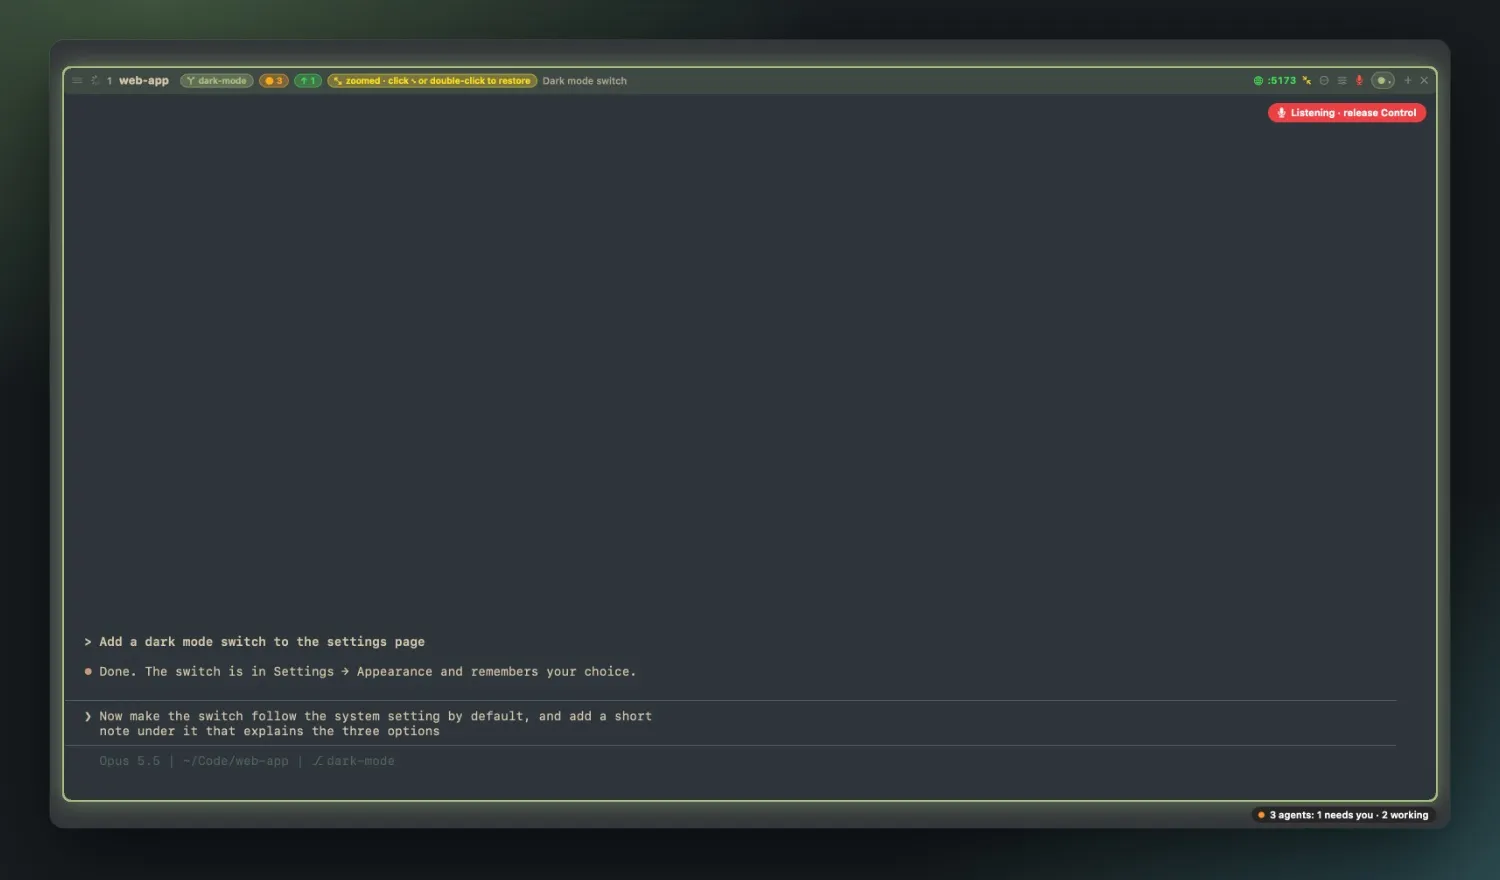
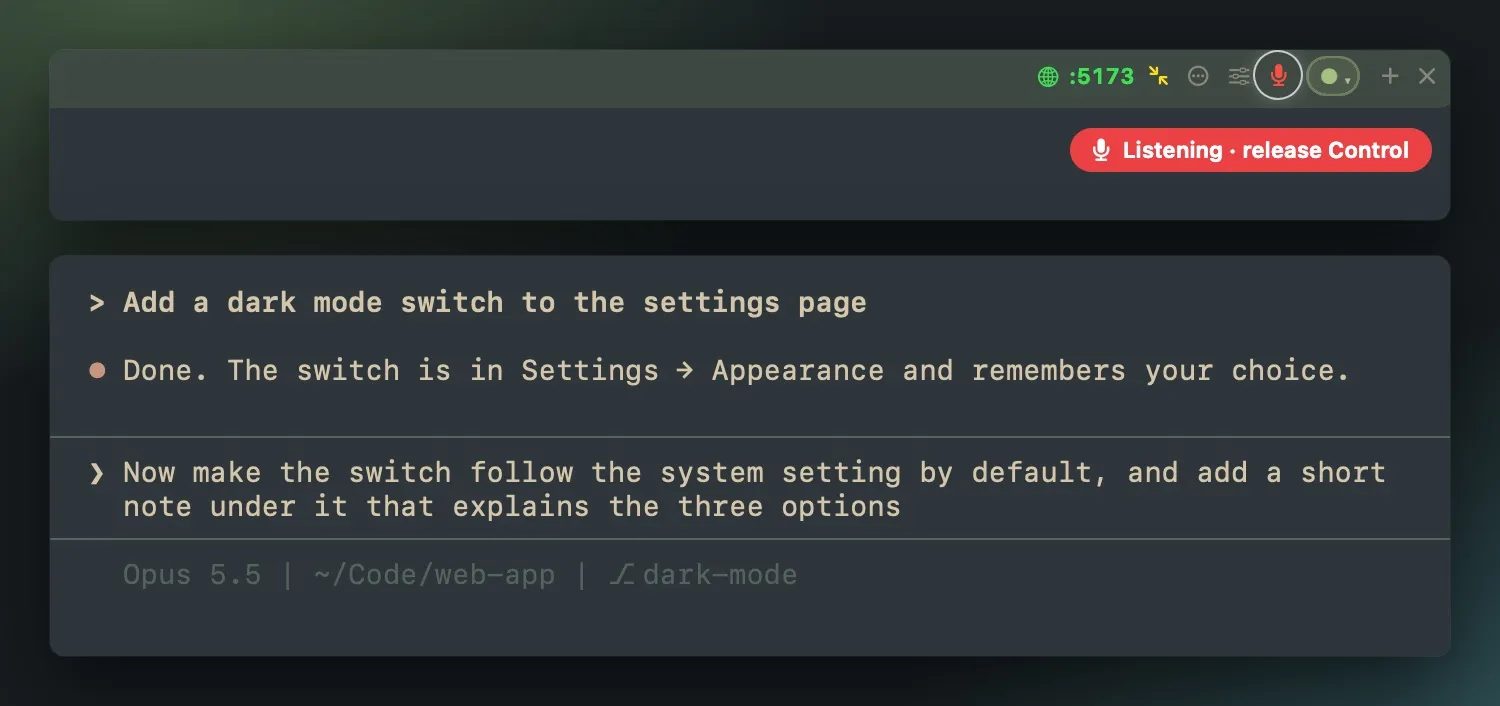
Voice picture: a close-up of the microphone, the Listening pill and the spoken words in the prompt

Changed region(s): [[0.0307, 0.0312, 0.9813, 0.966], [0.1533, 0.4986, 0.8893, 0.5609]]

diff --git a/index.html b/index.html
@@ -166,7 +166,7 @@
           <div><h3>Or tap the mic.</h3><p>Click the microphone in a pane's header to talk without holding a key.</p></div>
         </div>
       </div>
-      <div class="shot"><picture><source type="image/webp" srcset="assets/voice-800.webp 800w, assets/voice-1500.webp 1500w" sizes="(max-width: 860px) calc(100vw - 48px), 620px"><img src="assets/voice.jpg" width="1500" height="880" alt="A Mulembe pane listening, with the spoken words already in Claude's prompt and a red Listening pill." loading="lazy" decoding="async"></picture></div>
+      <div class="shot"><picture><source type="image/webp" srcset="assets/voice-800.webp 800w, assets/voice-1500.webp 1500w" sizes="(max-width: 860px) calc(100vw - 48px), 620px"><img src="assets/voice.jpg" width="1500" height="706" alt="Close-up of a Mulembe pane while you talk: the red microphone in its header, a red pill saying Listening, release Control, and the spoken words already in Claude's prompt." loading="lazy" decoding="async"></picture></div>
     </div>
   </section>
 
